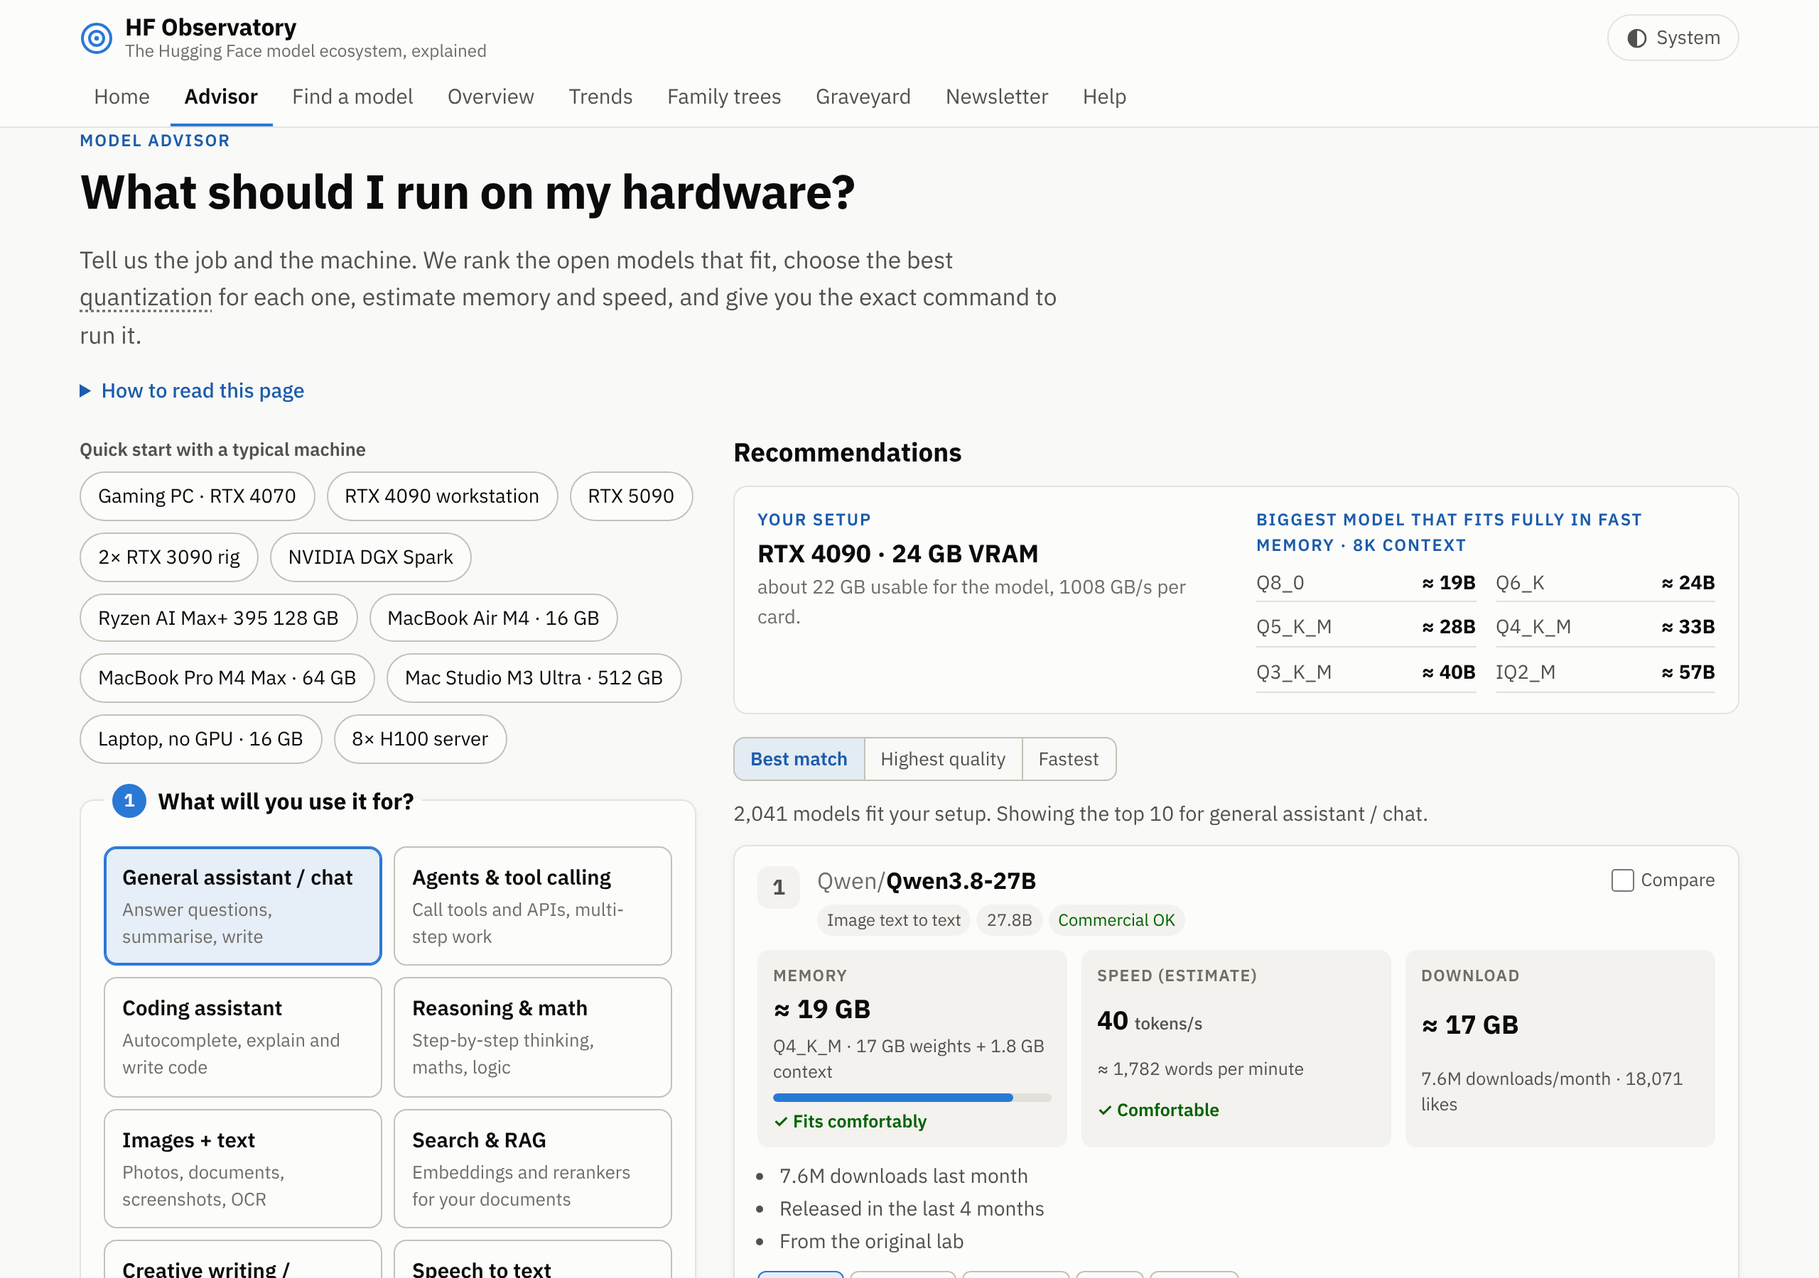
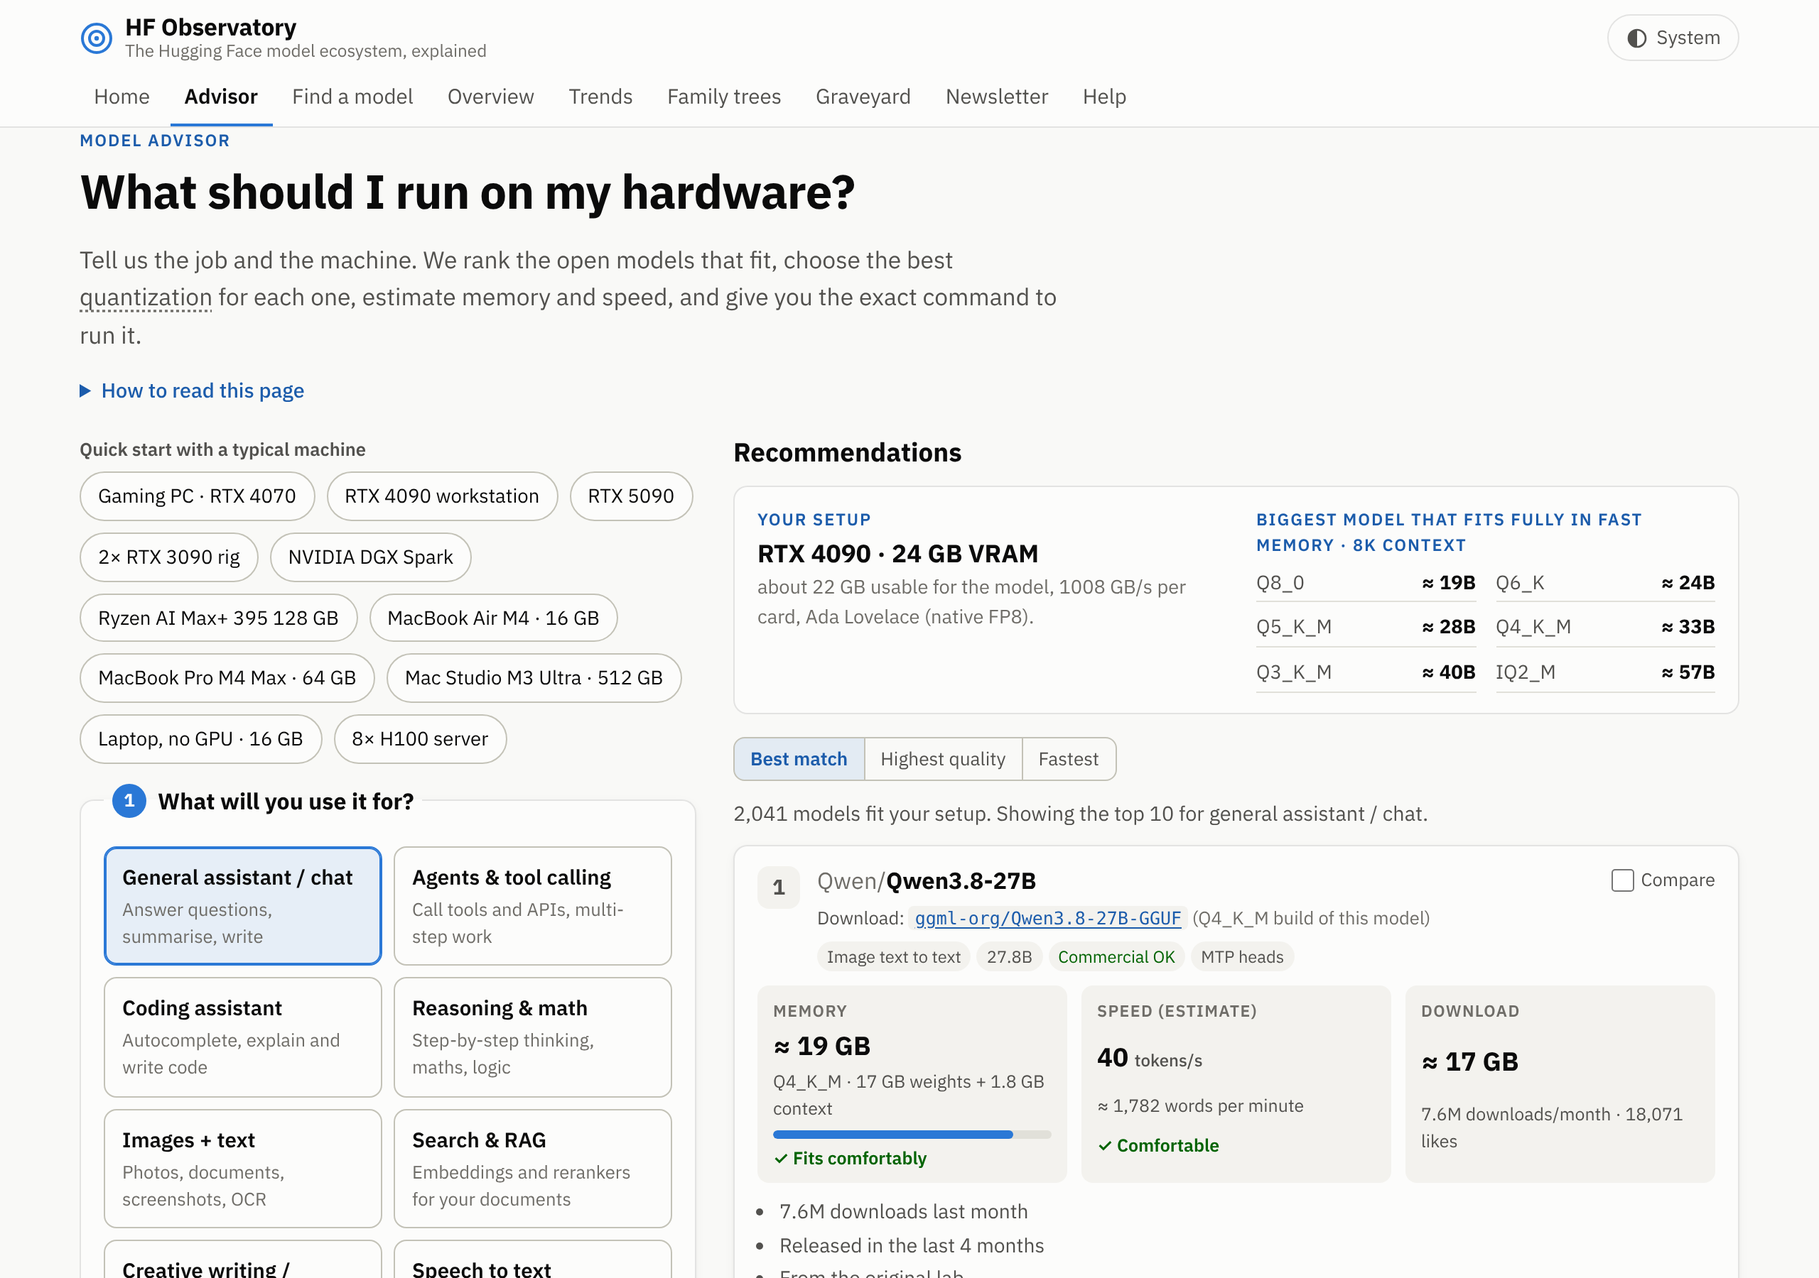
Advisor UI: link the build you download, speculative option, README
Claude-Session: https://claude.ai/code/session_01RavysqbENpYM9jLsPXoHpd

diff --git a/web/js/views/advisor.js b/web/js/views/advisor.js
@@ -4,9 +4,10 @@ import { term } from '../glossary.js';
 import { pageHeader } from '../ui.js';
 import { CPU_MEMORY, GPUS, MAC_CHIPS, PRESETS, RAM_SIZES, UNIFIED } from '../advisor/hardware.js';
 import {
-  AGENT_KINDS, CTX_STOPS, LLM_USES, QUANTS, RUNTIMES, SIZE_STOPS, TOOL_PARSERS, USER_STOPS, USES,
-  agentKind, budgetOf, capacity, recommend, runtimeKinds, speedLabel,
+  AGENT_KINDS, CTX_STOPS, LLM_USES, RUNTIMES, SIZE_STOPS, USER_STOPS, USES,
+  agentKind, capacity, recommend, runtimeKinds, speedLabel,
 } from '../advisor/engine.js';
+import { commandsFor } from '../advisor/commands.js';
 
 const LANGS = ['en', 'es', 'zh', 'fr', 'de', 'ja', 'ko', 'pt', 'it', 'ru', 'ar', 'hi'];
 const MAC_SIZES = [8, 16, 18, 24, 32, 36, 48, 64, 96, 128, 192, 256, 512];
@@ -16,13 +17,13 @@ const DEFAULT = {
   use: 'chat', agent: 'coding', ragPart: 'both',
   hw: 'gpu', gpu: 'rtx-4090', customVram: 16, customBw: 500, ngpu: 1, chip: 'm4-max', mac: 64, unified: 'dgx-spark', nunits: 1,
   ram: 32, cpuMem: 'ddr5', offload: false,
-  runtime: 'ollama', ctx: 8192, users: 1, kv: 'f16',
+  runtime: 'ollama', ctx: 8192, users: 1, kv: 'f16', spec: 'auto',
   sizeLo: 0, sizeHi: SIZE_STOPS.length - 1, priority: 40,
   lang: '', commercial: false, hideGated: false, uncensored: false, officialOnly: false, sort: 'best',
 };
 // short URL keys so a configuration can be shared
 const KEYS = { use: 'u', agent: 'ag', ragPart: 'rp', hw: 'hw', gpu: 'g', customVram: 'cv', customBw: 'cb', ngpu: 'n', chip: 'ch', mac: 'mm', unified: 'uf', nunits: 'nu',
-  ram: 'r', cpuMem: 'cm', offload: 'of', runtime: 'rt', ctx: 'c', users: 'us', kv: 'kv', sizeLo: 'lo', sizeHi: 'hi', priority: 'pr', lang: 'l',
+  ram: 'r', cpuMem: 'cm', offload: 'of', runtime: 'rt', ctx: 'c', users: 'us', kv: 'kv', spec: 'sp', sizeLo: 'lo', sizeHi: 'hi', priority: 'pr', lang: 'l',
   commercial: 'co', hideGated: 'hg', uncensored: 'un', officialOnly: 'oo', sort: 's' };
 
 let A = null;
@@ -126,9 +127,12 @@ function formHtml() {
       <div class="filters">
         <div class="field"><label for="a-runtime">Runtime</label>
           <select id="a-runtime" name="runtime">${option('any', 'No preference', state.runtime)}${Object.entries(RUNTIMES).map(([k, r]) => option(k, r.label, state.runtime)).join('')}</select></div>
+        <div class="field" data-llm><label for="a-spec">Speculative decoding</label>
+          <select id="a-spec" name="spec">${option('auto', 'Use when available', state.spec)}${option('off', 'Off', state.spec)}</select></div>
         <div class="field" data-llm><label for="a-kv">KV cache precision</label>
           <select id="a-kv" name="kv">${option('f16', '16-bit (default)', state.kv)}${option('q8', '8-bit: half the memory', state.kv)}${option('q4', '4-bit: least memory', state.kv)}</select></div>
       </div>
+      <p class="note" data-llm id="spec-note"></p>
       <div class="slider-field" data-llm>
         <div class="slider-head"><label for="a-ctx">Context window</label><output id="o-ctx"></output></div>
         <input type="range" id="a-ctx" name="ctxIdx" min="0" max="${CTX_STOPS.length - 1}" step="1">
@@ -182,7 +186,7 @@ function syncForm() {
   f.gpu.value = state.gpu; f.customVram.value = state.customVram; f.customBw.value = state.customBw;
   f.ngpu.value = String(state.ngpu); f.chip.value = state.chip; f.mac.value = String(state.mac);
   f.unified.value = state.unified; f.nunits.value = String(state.nunits); f.ram.value = String(state.ram); f.cpuMem.value = state.cpuMem;
-  f.offload.checked = state.offload; f.runtime.value = state.runtime; f.kv.value = state.kv;
+  f.offload.checked = state.offload; f.runtime.value = state.runtime; f.kv.value = state.kv; f.spec.value = state.spec;
   f.ctxIdx.value = String(Math.max(0, CTX_STOPS.indexOf(state.ctx)));
   f.usersIdx.value = String(Math.max(0, USER_STOPS.indexOf(state.users)));
   f.sizeLo.value = String(state.sizeLo); f.sizeHi.value = String(state.sizeHi); f.priority.value = String(state.priority);
@@ -202,7 +206,7 @@ function readForm(changed) {
     use: val('use') || 'chat', agent: val('agent') || 'coding', ragPart: val('ragPart') || 'both', hw: val('hw') || 'gpu',
     gpu: f.gpu.value, customVram: Math.max(1, parseFloat(f.customVram.value) || 8), customBw: Math.max(20, parseFloat(f.customBw.value) || 400),
     ngpu: +f.ngpu.value, chip: f.chip.value, mac: +f.mac.value, unified: f.unified.value, nunits: +f.nunits.value,
-    ram: +f.ram.value, cpuMem: f.cpuMem.value, offload: f.offload.checked, runtime: f.runtime.value, kv: f.kv.value,
+    ram: +f.ram.value, cpuMem: f.cpuMem.value, offload: f.offload.checked, runtime: f.runtime.value, kv: f.kv.value, spec: f.spec.value,
     ctx: CTX_STOPS[+f.ctxIdx.value], users: USER_STOPS[+f.usersIdx.value], sizeLo: lo, sizeHi: hi, priority: +f.priority.value,
     lang: f.lang.value, commercial: f.commercial.checked, officialOnly: f.officialOnly.checked, hideGated: f.hideGated.checked, uncensored: f.uncensored.checked,
   };
@@ -233,6 +237,13 @@ function decorate() {
   const u = UNIFIED.find((x) => x.id === s.unified);
   els.hwNote.textContent = s.hw === 'unified' && u ? u.note : s.hw === 'mac' ? 'MLX is usually the fastest way to run models on a Mac; Ollama and LM Studio also work well.' : '';
   els.hwNote.hidden = !els.hwNote.textContent;
+  const specNote = f.querySelector('#spec-note');
+  specNote.textContent = s.spec === 'off' ? ''
+    : ['vllm', 'sglang'].includes(s.runtime) ? 'Speculative decoding: uses a DFlash2 / DFlash / DSpark / EAGLE-3 draft model or the model’s built-in MTP heads when one exists; typically 1.5–2.5× faster for one user.'
+      : s.runtime === 'llamacpp' ? 'Speculative decoding in llama.cpp: MTP with MTP-preserving GGUF builds (single user, text only), or DFlash2 GGUF drafts with a build that supports them.'
+        : s.runtime === 'any' ? 'Speculative decoding is applied with vLLM / SGLang / llama.cpp when a draft or MTP heads exist.'
+          : 'This runtime does not do speculative decoding; pick vLLM, SGLang or llama.cpp for it.';
+  specNote.hidden = !specNote.textContent || !isLLM;
   // slider readouts
   const lo = SIZE_STOPS[s.sizeLo], hi = SIZE_STOPS[s.sizeHi];
   const full = s.sizeLo === 0 && s.sizeHi === SIZE_STOPS.length - 1;
@@ -247,77 +258,14 @@ function decorate() {
 
 /* --------------------------------------------------------------- results */
 
-function commands(r) {
-  const s = state;
-  const { m, fit, kind } = r;
-  const q = fit.quant;
-  const search = (x) => `https://huggingface.co/models?search=${encodeURIComponent(x)}`;
-  const base = m.id.split('/').pop();
-  const ctxK = s.ctx;
-  const out = [];
-  if (!LLM_USES.has(s.use)) {
-    if (s.use === 'rag') {
-      const isRerank = (m.caps >> A.caps.indexOf('rerank')) & 1;
-      out.push({ label: 'Python', code: isRerank
-        ? `pip install sentence-transformers\npython -c "from sentence_transformers import CrossEncoder as C; print(C('${m.id}').predict([('query', 'passage')]))"`
-        : `pip install sentence-transformers\npython -c "from sentence_transformers import SentenceTransformer as S; print(S('${m.id}').encode(['hello world']).shape)"` });
-      out.push({ label: 'Text Embeddings Inference', code: `docker run --gpus all -p 8080:80 ghcr.io/huggingface/text-embeddings-inference:latest --model-id ${m.id}` });
-      if (!isRerank) out.push({ label: 'Ollama', note: `Many embedding models are also in Ollama's library. <a href="${search(`${base} gguf`)}" rel="noopener">Search GGUF builds</a>.` });
-    } else if (s.use === 'asr') {
-      out.push({ label: 'Python', code: `pip install transformers torch\npython -c "from transformers import pipeline; print(pipeline('automatic-speech-recognition', model='${m.id}')('audio.mp3'))"` });
-      if (/whisper/i.test(m.id)) out.push({ label: 'whisper.cpp', note: 'Whisper models also run very fast with whisper.cpp or faster-whisper.' });
-    } else if (s.use === 'image') {
-      out.push({ label: 'Python', code: `pip install diffusers transformers torch\npython -c "from diffusers import DiffusionPipeline as P; P.from_pretrained('${m.id}').to('${s.hw === 'mac' ? 'mps' : 'cuda'}')('a lighthouse at dawn').images[0].save('out.png')"` });
-      out.push({ label: 'ComfyUI', note: 'ComfyUI (and Draw Things on Mac) load most of these models with a visual workflow editor.' });
-    } else {
-      out.push({ label: 'Model page', note: 'Text-to-speech models each ship their own runner: follow the instructions on the model page.' });
-    }
-    return out;
-  }
-  const ggufQ = QUANTS.gguf.find(([n]) => n === q) ? q : 'Q4_K_M';
-  const repo = m.gguf;
-  const env = [];
-  if (ctxK > 8192) env.push(`OLLAMA_CONTEXT_LENGTH=${ctxK}`);
-  if (s.kv !== 'f16') env.push(`OLLAMA_FLASH_ATTENTION=1 OLLAMA_KV_CACHE_TYPE=${s.kv === 'q8' ? 'q8_0' : 'q4_0'}`);
-  if (s.users > 1) env.push(`OLLAMA_NUM_PARALLEL=${Math.min(s.users, 16)}`);
-  const parser = /qwen3-coder/i.test(m.id) ? 'qwen3_coder' : TOOL_PARSERS[m.fam];
-  const tp = s.hw === 'gpu' && s.ngpu > 1 ? ` --tensor-parallel-size ${s.ngpu}` : '';
-  const vllmQ = q === 'BF16' ? '' : q === 'FP8' ? ' --quantization fp8' : '';
-  const toolFlags = s.use === 'agents' ? (parser ? ` \\\n  --enable-auto-tool-choice --tool-call-parser ${parser}` : ' \\\n  --enable-auto-tool-choice --tool-call-parser <see model card>') : '';
-  const awqNote = q.includes('AWQ') ? `Needs an AWQ build to fit: <a href="${search(`${base} awq`)}" rel="noopener">search one</a> and serve that instead.` : '';
-
-  const gguf = repo
-    ? {
-      ollama: { label: 'Ollama', code: `${env.length ? `${env.join(' ')} ollama serve   # in one terminal\n` : ''}ollama run hf.co/${repo}:${ggufQ}`, note: s.use === 'agents' ? 'Ollama exposes an OpenAI-compatible API with tool calling at http://localhost:11434/v1.' : '' },
-      llamacpp: { label: 'llama.cpp', code: `llama-server -hf ${repo}:${ggufQ} -c ${ctxK} -ngl 99${s.kv !== 'f16' ? ` -fa on -ctk ${s.kv === 'q8' ? 'q8_0' : 'q4_0'} -ctv ${s.kv === 'q8' ? 'q8_0' : 'q4_0'}` : ''}${s.users > 1 ? ` -np ${s.users}` : ''}${s.use === 'agents' ? ' --jinja' : ''}`, note: 'Chat UI and OpenAI-compatible API at http://localhost:8080.' },
-      lmstudio: { label: 'LM Studio', code: `lms get ${repo}`, note: `Or search “${esc(repo)}” in LM Studio and pick the <strong>${esc(ggufQ)}</strong> file.` },
-    }
-    : {
-      ollama: { label: 'Ollama', note: `No GGUF build of this model is tracked yet. <a href="${search(`${base} gguf`)}" rel="noopener">Search GGUF builds on Hugging Face</a>, then run <code>ollama run hf.co/&lt;repo&gt;:${esc(ggufQ)}</code>.` },
-    };
-  const mlx = s.hw === 'mac'
-    ? { label: 'MLX', code: m.mlx ? `pip install mlx-lm\nmlx_lm.chat --model ${m.mlx}` : `pip install mlx-lm\nmlx_lm.convert --hf-path ${m.id} -q\nmlx_lm.chat --model mlx_model`, note: m.mlx ? '' : 'No MLX build tracked: this converts the original to 4-bit locally.' }
-    : null;
-  const vllm = m.st && s.hw !== 'mac' && s.hw !== 'cpu'
-    ? { label: 'vLLM', code: `vllm serve ${m.id} --max-model-len ${ctxK}${tp}${vllmQ}${s.kv !== 'f16' ? ' --kv-cache-dtype fp8' : ''}${toolFlags}`, note: awqNote || 'OpenAI-compatible API at http://localhost:8000/v1.' }
-    : null;
-  const sglang = m.st && s.hw !== 'mac' && s.hw !== 'cpu'
-    ? { label: 'SGLang', code: `python -m sglang.launch_server --model-path ${m.id} --context-length ${ctxK}${s.hw === 'gpu' && s.ngpu > 1 ? ` --tp ${s.ngpu}` : ''}`, note: awqNote }
-    : null;
-
-  const primary = s.runtime !== 'any' ? s.runtime : kind === 'mlx' ? 'mlx' : kind === 'st' ? 'vllm' : 'ollama';
-  const all = { ...gguf, mlx, vllm, sglang };
-  if (all[primary]) out.push(all[primary]);
-  for (const [k, v] of Object.entries(all)) if (v && k !== primary && v.code) out.push(v);
-  return out;
-}
-
 function resultCard(r, i) {
   const s = state;
   const b = els.lastBudget;
   const { m, fit } = r;
   const [author, ...rest] = m.id.split('/');
   const isLLM = LLM_USES.has(s.use);
+  // the repository you would actually download for this setup
+  const dl = r.kind === 'gguf' ? m.gguf : r.kind === 'mlx' ? m.mlx : fit.repo;
   const pool = fit.where === 'gpu' ? (b.fast || b.slow) : b.fast + b.slow;
   const used = fit.need ? Math.min(100, (fit.need.total / pool) * 100) : null;
   const status = fit.where === 'split' ? ['warn', 'Part of it runs from system RAM']
@@ -325,18 +273,20 @@ function resultCard(r, i) {
       : used > 92 ? ['tight', 'Fits, but tight'] : ['ok', 'Fits comfortably'];
   const sp = fit.tps != null ? speedLabel(fit.tps) : null;
   const lf = LICENSE_FAMILY[m.lf];
-  const cmds = commands(r);
+  const cmds = commandsFor(r, state, b, A.caps);
   const id = `cmd-${i}`;
   return `<article class="advice" data-id="${esc(m.id)}">
     <div class="advice-head">
       <span class="advice-rank">${i + 1}</span>
       <div class="advice-title">
         <h3><a href="${esc(hfUrl(m.id))}" rel="noopener"><span class="author">${esc(author)}/</span>${esc(rest.join('/'))}</a></h3>
+        ${dl && dl !== m.id ? `<p class="repo-line">Download: <a href="${esc(hfUrl(dl))}" rel="noopener"><code>${esc(dl)}</code></a> <span class="muted">(${esc(fit.quant)} build of this model)</span></p>` : ''}
         <div class="chips">
           <span class="chip">${esc(task(m.task))}</span>
           ${m.p ? `<span class="chip">${bill(m.p)}${m.a ? ` · ${m.a}B active` : ''}</span>` : ''}
           <span class="chip ${m.lf === 'oss' ? 'ok' : m.lf === 'non-commercial' ? 'nc' : ''}" title="${esc(m.lic || '')}">${esc(lf.short)}</span>
           ${(m.caps >> A.caps.indexOf('tools')) & 1 ? '<span class="chip">Tool calling</span>' : ''}
+          ${fit.spec ? `<span class="chip ok">${esc(fit.spec.label)}</span>` : m.mtp ? '<span class="chip">MTP heads</span>' : ''}
           ${m.gated ? '<span class="chip gated">Gated</span>' : ''}
         </div>
       </div>
@@ -346,14 +296,14 @@ function resultCard(r, i) {
       <div class="metric fit-${status[0]}">
         <span class="metric-label">Memory</span>
         <span class="metric-value">${fit.need ? `≈ ${gb(fit.need.total)}` : 'small'}</span>
-        <span class="metric-sub">${esc(fit.quant)}${isLLM && fit.need ? ` · ${gb(fit.need.weights)} weights + ${gb(fit.need.kv)} context` : ''}</span>
+        <span class="metric-sub">${esc(fit.quant)}${isLLM && fit.need ? ` · ${gb(fit.need.weights)} weights + ${gb(fit.need.kv)} context${fit.need.draft ? ` + ${gb(fit.need.draft)} ${fit.spec?.draft ? 'draft' : 'MTP'}` : ''}` : ''}</span>
         ${used != null ? `<div class="meter" role="img" aria-label="Uses about ${Math.round(used)}% of your memory"><span style="width:${used.toFixed(1)}%"></span></div>` : ''}
         <span class="metric-status">${status[1]}</span>
       </div>
       ${isLLM ? `<div class="metric speed-${sp[0]}">
         <span class="metric-label">Speed (estimate)</span>
         <span class="metric-value">${tps(fit.tps)} <small>tokens/s</small></span>
-        <span class="metric-sub">≈ ${int(Math.round(fit.tps * 0.75 * 60))} words per minute</span>
+        <span class="metric-sub">≈ ${int(Math.round(fit.tps * 0.75 * 60))} words per minute${fit.spec ? ` · ${tps(fit.tpsBase)} without ${esc(fit.spec.label)}` : ''}</span>
         <span class="metric-status">${sp[1]}</span>
       </div>` : ''}
       <div class="metric">
@@ -380,7 +330,8 @@ function summaryHtml(b) {
   const kind = runtimeKinds(s)[0];
   const cap = isLLM ? capacity(kind, s, b) : [];
   return `<div class="budget">
-    <div><p class="eyebrow">Your setup</p><p class="budget-main">${esc(b.label)}</p><p class="note">${esc(b.detail)}</p></div>
+    <div><p class="eyebrow">Your setup</p><p class="budget-main">${esc(b.label)}</p><p class="note">${esc(b.detail)}</p>
+      ${isLLM && b.kind !== 'mac' && b.kind !== 'cpu' && ['vllm', 'sglang', 'any'].includes(s.runtime) ? `<p class="note"><strong>Best GPU-server formats here:</strong> ${b.arch === 'blackwell' ? 'NVFP4 (native FP4 tensor cores) and FP8' : ['hopper', 'ada', 'cdna3'].includes(b.arch) ? 'FP8 (native), AWQ / GPTQ for 4-bit' : 'INT8 and AWQ / GPTQ 4-bit (no FP8 hardware)'}${b.arch === 'blackwell' ? '; MXFP4 for gpt-oss' : ''}.</p>` : ''}</div>
     ${isLLM ? `<div><p class="eyebrow">Biggest model that fits ${b.fast ? 'fully in fast memory' : ''} · ${ctxLabel(s.ctx)} context${s.users > 1 ? ` × ${s.users} users` : ''}</p>
       <ul class="cap-list">${cap.map(([n, p]) => `<li><span>${esc(n)}</span><strong>${p >= 1 ? `≈ ${p >= 10 ? Math.round(p) : p.toFixed(1)}B` : '< 1B'}</strong></li>`).join('')}</ul></div>` : ''}
   </div>`;
@@ -408,6 +359,8 @@ function compareHtml(list) {
       <tbody>
         ${line('Size', (r) => `${bill(r.m.p)}${r.m.a ? ` (${r.m.a}B active)` : ''}`)}
         ${line('Quantization', (r) => esc(r.fit.quant))}
+        ${line('Download repo', (r) => `<code>${esc(r.kind === 'gguf' ? r.m.gguf || '–' : r.kind === 'mlx' ? r.m.mlx || '–' : r.fit.repo)}</code>`)}
+        ${isLLM ? line('Speculative', (r) => (r.fit.spec ? esc(r.fit.spec.label) : '–')) : ''}
         ${line('Memory', (r) => (r.fit.need ? gb(r.fit.need.total) : '–'))}
         ${isLLM ? line('Speed', (r) => `${tps(r.fit.tps)} tok/s`) : ''}
         ${line('Download', (r) => (r.fit.download ? gb(r.fit.download) : '–'))}

diff --git a/web/css/style.css b/web/css/style.css
@@ -547,3 +547,6 @@ input[type="range"] { width: 100%; accent-color: var(--accent); margin: 8px 0 2p
 }
 .jump-results { position: fixed; left: 50%; transform: translateX(-50%); bottom: calc(14px + env(safe-area-inset-bottom, 0px)); z-index: 30; box-shadow: 0 4px 16px rgba(0,0,0,.25); border-radius: 999px; }
 @media (min-width: 1100px) { .jump-results { display: none; } }
+.repo-line { margin: 0; font-size: .8rem; color: var(--ink-2); overflow-wrap: anywhere; }
+.repo-line code { font-size: .78rem; }
+.repo-line .muted { color: var(--muted); }

diff --git a/README.md b/README.md
@@ -139,6 +139,18 @@ npm run screenshots                       # refresh docs/screenshots/
 * Family trees use the Hub tags `base_model:<relation>:<parent>`; models that only declare `base_model` count as
   “other derivatives”. Parents are matched case-insensitively and only live models are counted as derivatives.
   Very large families are trimmed in the tree (top 120 children of the base, top 25 below that, 4 generations).
+* Advisor GPU-server formats follow the architecture: Blackwell (RTX 50, RTX PRO 6000 Blackwell, B200, DGX Spark,
+  Jetson Thor) → BF16 / FP8 / **NVFP4**; Hopper, Ada and AMD CDNA3 → BF16 / FP8 / AWQ-GPTQ; Ampere, Turing and others →
+  BF16 / INT8 / AWQ-GPTQ; gpt-oss always runs its native MXFP4. The card links the exact repository to download (the
+  NVFP4 / FP8 / AWQ / GGUF / MLX build), with the original model as the title. FP8 falls back to on-the-fly
+  quantization (`--quantization fp8`) when no FP8 build is tracked.
+* Speculative decoding: drafts are found from their tags and base model (DFlash2, DFlash, DSpark, EAGLE-3), and MTP
+  from the model's own tags/architecture or an MTP-preserving GGUF. vLLM gets `--speculative-config` (`dflash`, `eagle3`
+  or the family's MTP method), SGLang `--speculative-algorithm DFLASH | DSPARK | EAGLE3 | NEXTN`, llama.cpp
+  `--spec-type draft-mtp` or a DFlash2 GGUF draft (`-hfd`, needs a build with DFlash2). Speed-ups (1.5–2.3× for one
+  user, less when serving many) are estimates; acceptance rates vary by prompt.
+* vLLM, SGLang, Ollama, llama.cpp and Text Embeddings Inference commands are also given as Docker Compose files
+  (NVIDIA GPU reservation, ROCm images and `/dev/kfd` for AMD, a note for ARM64 machines such as DGX Spark).
 * The advisor's memory estimate is parameters × bytes per parameter for the quantization + a KV cache of
   ~1 GB per 8K tokens for an 8B model (growing sub-linearly with size) + 0.5 GB; usable memory is the VRAM minus
   ~0.8 GB, or about 67–75% of a Mac's unified memory. GGUF/MLX builds are only linked when their repository name
